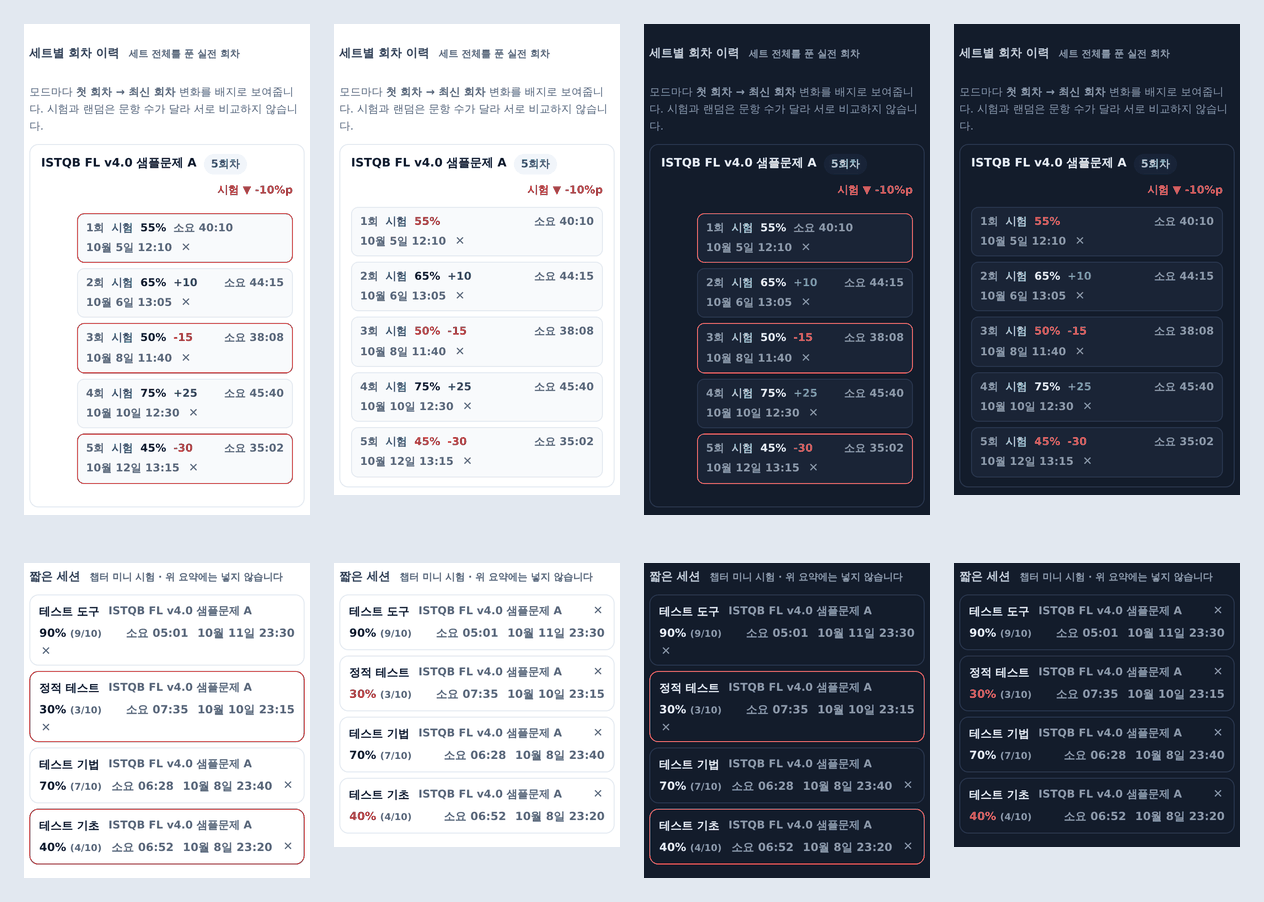
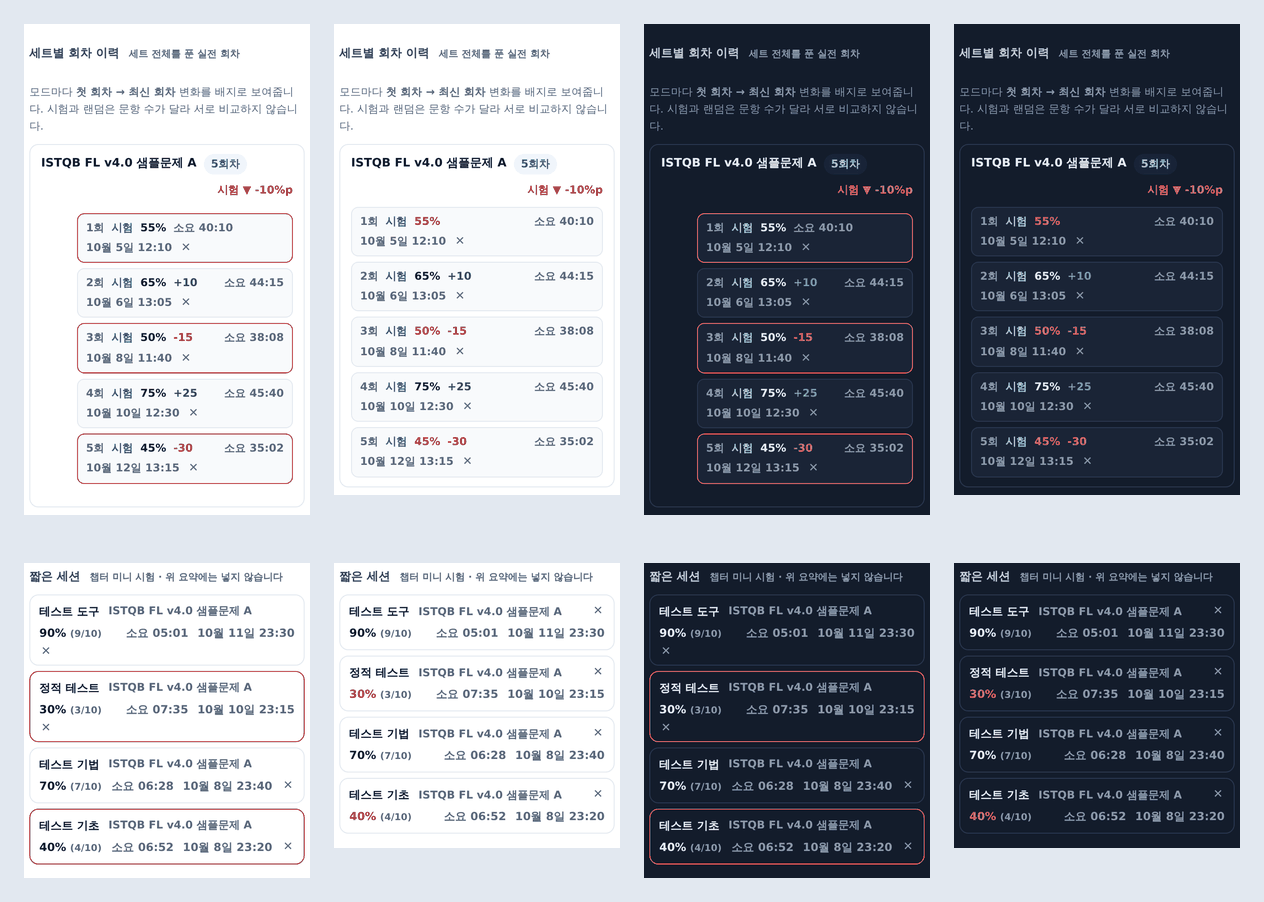
fix(ui): 코드리뷰 반영 — 출처 세트 말줄임 방지, 소요·날짜 없는 이력의 ✕, 회차 ✕ 덩어리, 말줄임·안쪽 여백 검사
PR 코드리뷰(high)의 지적 중 재현된 것을 고친다.

- 짧은 세션: 챕터·세트를 격자 칸 하나씩에 넣었더니 출처 세트 이름이 말줄임으로 잘렸다(360px에서는 가장 짧은 챕터명에서도,
  412px에서도 긴 챕터명에서). 구분 단서가 이름 끝(…샘플문제 A의 A)이라 같은 챕터를 두 세트에서 푼 행을 가를 수 없다.
  챕터·세트를 한 덩어리(.mr-head)로 흐르게 두어 자리가 모자라면 세트가 다음 줄로 내려가게 하고(main의 동작), ✕만 격자로
  첫 줄 오른쪽에 둔다. 행 높이는 챕터 길이에 따라 2~3줄로 달라진다(main도 그랬다) — 잘림 대신 고른 대가다.
- 회차 이력: 소요·날짜가 없는 옛·가져온 이력(두 필드는 선택이고 저장소가 채워 주지 않는다)은 ✕가 정답률 바로 뒤라 오른쪽으로
  밀리지 않았다. 밀기 규칙을 정답률(·증감) 바로 뒤 요소 하나로 일반화한다(증감용 margin-right:auto 갈래를 없앤다 — 두 갈래라
  줄이 접히면 행마다 소요 시간이 왼쪽·오른쪽으로 갈렸다). 320px에서 ✕가 혼자 셋째 줄로 떨어지던 것은 날짜와 ✕를 한 덩어리
  (.stl-round-tail)로 묶어 막는다.
- 검사: 말줄임은 상자 좌표가 아니라 scrollWidth로 잰다(잘린 칸의 상자는 잘린 크기라 좌표만으로는 통과한다). 겹침은 행의
  안쪽(테두리·패딩 안)을 기준으로, 소요 시간 정렬은 모든 폭에서, 회차 행의 ✕가 날짜와 같은 줄인지, 소요·날짜 없는 행의 ✕
  위치까지 잰다. 붉은 기 판정은 helpers.ts의 isReddish로 모아 세 스펙에 흩어진 복사본을 없앤다(color(srgb …) 직렬화도
  읽는다). PR 머리(b8f49cc)로 되돌리면 4건이 각각 실패하는 것을 확인했다(세트 말줄임 360·390px, 소요 시간 정렬 320px,
  옛 회차의 ✕ 148px).
- 문서: ui-render.md의 짧은 세션·회차 규칙을 실제 구조로 고치고, ol reset의 뿌리와 추가안(전역 reset 확장)을 적었다.

후속으로 남긴 것(이 PR의 변경이 만든 것이 아니거나 디자인 결정이 필요하다): ✕가 15×13px이고 확인·실행 취소 없이 즉시
삭제하는 점, 두 목록의 ✕ 위치 통일(회차는 날짜 뒤, 짧은 세션은 첫 줄 오른쪽).

Claude-Session: https://claude.ai/code/session_01QKJMyX2ix8rmUsqF3ppw7s

diff --git a/e2e/react-stats.spec.ts b/e2e/react-stats.spec.ts
@@ -1,5 +1,5 @@
 import { expect, Page, test } from "./fixtures";
-import { enterExam, modeBtn, openProduct, openSet, settle, submitGrade } from "./helpers";
+import { enterExam, isReddish, modeBtn, openProduct, openSet, settle, submitGrade } from "./helpers";
 
 // 학습 통계 — 요약·회차 타임라인·약점 분석·챕터 분모.
 
@@ -8,6 +8,8 @@ interface SeedRound {
   id: string; mode: string; correct: number; total: number; chapter?: string;
   /** 응시 시각(ms) — 생략하면 id로 만든 고정 날짜. 날짜 글자 길이가 행 배치에 영향을 주는 검사에서만 준다. */
   at?: number;
+  /** 소요 시간·응시 시각이 없는 옛·가져온 이력(두 필드는 선택이고 저장소가 채워 주지 않는다). */
+  bare?: boolean;
 }
 
 // 통계 화면은 "여러 회차가 쌓인 뒤"의 계산이 핵심이라, 실제 풀이로는 원하는 점수 조합을
@@ -30,8 +32,9 @@ async function seedHistories(page: Page, rounds: SeedRound[]) {
         tx.objectStore("history").put({
           id: r.id, setId: "ISTQB-FL-V4-A", mode: r.mode, certification: "istqb",
           setTitle: "ISTQB FL v4.0 샘플문제 A", answers: {},
-          correct: r.correct, total: r.total, elapsedSeconds: 600,
-          createdAt: r.at ?? 1750000000000 + Number(r.id),
+          correct: r.correct, total: r.total,
+          ...(r.bare ? {} : { elapsedSeconds: 600 }),
+          createdAt: r.bare ? 0 : r.at ?? 1750000000000 + Number(r.id),
           chapterStats: { "테스트 기초": { c: r.correct, t: r.total } },
           ...(r.chapter ? { chapter: r.chapter } : {}),
         });
@@ -161,10 +164,6 @@ test.describe("학습 통계", () => {
     ]);
     await openStats(page);
 
-    const reddish = (rgb: string) => {
-      const [r, g, b] = (rgb.match(/\d+/g) ?? []).slice(0, 3).map(Number);
-      return r > g + 40 && r > b + 40;
-    };
     for (const [list, rate] of [[".stl-rounds li", ".stl-round-rate"], [".mini-rounds li", ".mr-rate"]] as const) {
       const rows = await page.locator(list).evaluateAll((els, rateSel) => els.map((el) => ({
         weak: el.classList.contains("weak"),
@@ -174,14 +173,15 @@ test.describe("학습 통계", () => {
       expect(rows.some((r) => r.weak), `${list}: 미달 행이 없다 — 시드가 바뀌었다`).toBe(true);
       expect(rows.some((r) => !r.weak), `${list}: 통과 행이 없다 — 시드가 바뀌었다`).toBe(true);
       for (const r of rows) {
-        expect(reddish(r.border), `${list}: 행 테두리가 붉다(${r.border}) — 미달은 정답률 숫자로만 짚는다`).toBe(false);
-        expect(reddish(r.rate), `${list}: ${r.weak ? "미달 행의 정답률이 붉지 않다" : "통과 행의 정답률이 붉다"}(${r.rate})`).toBe(r.weak);
+        expect(isReddish(r.border), `${list}: 행 테두리가 붉다(${r.border}) — 미달은 정답률 숫자로만 짚는다`).toBe(false);
+        expect(isReddish(r.rate), `${list}: ${r.weak ? "미달 행의 정답률이 붉지 않다" : "통과 행의 정답률이 붉다"}(${r.rate})`).toBe(r.weak);
       }
     }
   });
 
   // 배치는 위치가 아니라 규칙으로 잰다. 회차 행이 40px 들여써지고(ol 기본 여백) 짧은 세션의 ✕가 셋째 줄로 떨어지던 결함 —
   // 둘 다 눌러지고 읽히므로 기능 검사는 통과했다. 날짜가 가장 긴 형식('10월 28일 23:30')·가장 긴 챕터명으로 잰다.
+  // 상자 좌표만 재면 말줄임(…)으로 잘린 글자도 통과하므로(잘린 칸의 상자는 잘린 크기다) scrollWidth로 따로 본다.
   for (const width of [320, 360, 390]) {
     test(`회차·짧은 세션 행의 배치 — ${width}px`, async ({ page }) => {
       const at = (day: number) => new Date(2025, 9, day, 23, 30).getTime(); // 10월 N일 23:30 — 월·일이 모두 두 자리
@@ -199,49 +199,88 @@ test.describe("학습 통계", () => {
       // ① 회차 행은 카드 안쪽 여백에 맞춰 선다 — 들여쓰기(ol 기본 padding 40px)가 없다.
       const timeline = await page.locator(".set-timeline").first().evaluate((card) => {
         const head = card.querySelector(".stl-head")!.getBoundingClientRect();
-        const rows = [...card.querySelectorAll<HTMLElement>(".stl-rounds li")].map((li) => li.getBoundingClientRect());
-        const times = [...card.querySelectorAll<HTMLElement>(".stl-round-time")].map((t) => Math.round(t.getBoundingClientRect().right));
-        const tops = [...card.querySelectorAll<HTMLElement>(".stl-round-time")].map((t) => Math.round(t.getBoundingClientRect().top));
-        return { headLeft: head.left, rowLefts: rows.map((r) => r.left), rowRights: rows.map((r) => r.right), headRight: head.right, times, tops };
+        // 행의 안쪽 오른쪽 끝(테두리·패딩 안) — 소요 시간·✕가 붙어야 하는 자리.
+        const inner = (li: Element) => {
+          const cs = getComputedStyle(li);
+          return li.getBoundingClientRect().right - parseFloat(cs.paddingRight) - parseFloat(cs.borderRightWidth);
+        };
+        const rows = [...card.querySelectorAll<HTMLElement>(".stl-rounds li")].map((li) => {
+          const box = li.getBoundingClientRect();
+          const time = li.querySelector(".stl-round-time")?.getBoundingClientRect();
+          const date = li.querySelector(".stl-round-date")?.getBoundingClientRect();
+          const del = li.querySelector(".stl-round-del")!.getBoundingClientRect();
+          return {
+            left: box.left, right: box.right, innerRight: inner(li),
+            timeRight: time?.right, dateDelSameLine: date ? Math.abs((date.top + date.height / 2) - (del.top + del.height / 2)) : 0,
+          };
+        });
+        return { headLeft: head.left, headRight: head.right, rows };
       });
-      for (const left of timeline.rowLefts) {
-        expect(Math.abs(left - timeline.headLeft), `회차 행이 카드 안쪽 여백에 맞지 않는다(들여쓰기): 행 ${left} · 카드 ${timeline.headLeft}`).toBeLessThanOrEqual(1);
-      }
-      for (const right of timeline.rowRights) expect(right, "회차 행이 카드 오른쪽을 넘었다").toBeLessThanOrEqual(timeline.headRight + 1);
-
-      // ② 소요 시간은 모든 회차 행에서 같은 줄(첫 줄)의 오른쪽 끝에 선다 — 첫 회차(증감 없음)만 왼쪽에 붙던 결함.
-      //    좁은 폭에서는 줄이 접혀 행마다 다를 수 있어 360px 이상에서만 본다.
-      if (width >= 360) {
-        expect(new Set(timeline.times).size, `소요 시간의 오른쪽 끝이 행마다 다르다: ${timeline.times}`).toBe(1);
+      for (const r of timeline.rows) {
+        expect(Math.abs(r.left - timeline.headLeft), `회차 행이 카드 안쪽 여백에 맞지 않는다(들여쓰기): 행 ${r.left} · 카드 ${timeline.headLeft}`).toBeLessThanOrEqual(1);
+        expect(r.right, "회차 행이 카드 오른쪽을 넘었다").toBeLessThanOrEqual(timeline.headRight + 1);
+        // ② 소요 시간은 모든 회차 행에서 행의 오른쪽 끝에 붙는다 — 첫 회차(증감 없음)만 왼쪽에 붙던 결함. 줄이 접혀도 같은 쪽이다.
+        expect(Math.abs((r.timeRight ?? r.innerRight) - r.innerRight), `소요 시간이 오른쪽 끝에 붙지 않았다: ${r.timeRight} · 행 안쪽 끝 ${r.innerRight}`).toBeLessThanOrEqual(1);
+        // ③ 날짜와 ✕는 한 덩어리 — 줄이 접혀도 ✕만 혼자 아랫줄로 떨어지지 않는다.
+        expect(r.dateDelSameLine, `회차 행의 ✕가 날짜와 다른 줄에 있다(${r.dateDelSameLine}px)`).toBeLessThanOrEqual(6);
       }
 
-      // ③ 짧은 세션: ✕는 챕터명과 같은 첫 줄에 서고(혼자 셋째 줄로 떨어지지 않는다), 모든 칸이 행 안에 든다.
-      //    마크업 구조(.mr-meta 같은 래퍼)가 아니라 보이는 관계만 잰다.
+      // ④ 짧은 세션: ✕는 첫 줄 오른쪽 끝에 서고(혼자 셋째 줄로 떨어지지 않는다), 챕터명·출처 세트는 잘리지 않으며, 모든 칸이 행 안쪽에 든다.
+      //    마크업 구조(.mr-head·.mr-meta 같은 래퍼)가 아니라 보이는 관계만 잰다.
       const minis = await page.getByTestId("mini-round-item").evaluateAll((rows) => rows.map((li) => {
         const box = (sel: string) => li.querySelector(sel)!.getBoundingClientRect();
+        const cs = getComputedStyle(li);
         const row = li.getBoundingClientRect();
+        const innerLeft = row.left + parseFloat(cs.paddingLeft) + parseFloat(cs.borderLeftWidth);
+        const innerRight = row.right - parseFloat(cs.paddingRight) - parseFloat(cs.borderRightWidth);
         const chapter = box(".mr-chapter");
         const del = box(".stl-round-del");
         const rate = box(".mr-rate");
+        const cut = (sel: string) => { const e = li.querySelector(sel); return !!e && e.scrollWidth > e.clientWidth + 1; };
         const overflow = [...li.querySelectorAll<HTMLElement>("*")]
-          .filter((el) => el.getBoundingClientRect().right > row.right + 1 || el.getBoundingClientRect().left < row.left - 1)
+          .filter((el) => el.getBoundingClientRect().right > innerRight + 1 || el.getBoundingClientRect().left < innerLeft - 1)
           .map((el) => el.className);
         return {
           label: li.querySelector(".mr-chapter")!.textContent,
-          sameLine: Math.abs((del.top + del.height / 2) - (chapter.top + chapter.height / 2)),
+          delSameLine: Math.abs((del.top + del.height / 2) - (chapter.top + chapter.height / 2)),
+          delAtRight: Math.abs(del.right - innerRight),
           rateBelow: rate.top >= chapter.bottom - 1,
-          overflow,
+          chapterCut: cut(".mr-chapter"), setCut: cut(".mr-set"), overflow,
         };
       }));
       expect(minis.length).toBe(2);
       for (const m of minis) {
-        expect(m.sameLine, `${m.label}: ✕가 챕터명과 다른 줄에 있다(${m.sameLine}px)`).toBeLessThanOrEqual(6);
+        expect(m.delSameLine, `${m.label}: ✕가 챕터명 첫 줄에 있지 않다(${m.delSameLine}px)`).toBeLessThanOrEqual(8);
+        expect(m.delAtRight, `${m.label}: ✕가 행의 오른쪽 끝에 붙지 않았다(${m.delAtRight}px)`).toBeLessThanOrEqual(1);
         expect(m.rateBelow, `${m.label}: 정답률이 첫 줄(챕터명) 아래로 가지 않았다`).toBe(true);
-        expect(m.overflow, `${m.label}: 행 밖으로 넘친 칸`).toEqual([]);
+        // 출처 세트의 구분 단서는 이름 끝(A·B)이다 — 말줄임하면 같은 챕터를 두 세트에서 푼 행을 가를 수 없다.
+        expect(m.setCut, `${m.label}: 출처 세트가 말줄임으로 잘렸다`).toBe(false);
+        expect(m.chapterCut, `${m.label}: 챕터명이 말줄임으로 잘렸다`).toBe(false);
+        expect(m.overflow, `${m.label}: 행 안쪽 밖으로 넘친 칸`).toEqual([]);
       }
       expect(await page.evaluate(() => document.documentElement.scrollWidth - window.innerWidth), "페이지가 가로로 넘친다").toBeLessThanOrEqual(0);
     });
   }
+
+  // 소요 시간·응시 시각은 선택 필드다(옛·가져온 이력에는 없고 저장소가 채워 주지 않는다). 그 회차의 ✕도 오른쪽 끝에 서야 한다 —
+  // 정답률 바로 뒤가 ✕인 경우다.
+  test("소요 시간·날짜가 없는 옛 회차도 ✕가 행의 오른쪽 끝에 선다", async ({ page }) => {
+    await seedHistories(page, [
+      { id: "1000", mode: "exam", correct: 24, total: 40, bare: true },
+      { id: "2000", mode: "exam", correct: 26, total: 40 },
+    ]);
+    await openStats(page);
+    await page.setViewportSize({ width: 390, height: 900 });
+    await settle(page);
+    const gaps = await page.locator(".stl-rounds li").evaluateAll((rows) => rows.map((li) => {
+      const cs = getComputedStyle(li);
+      const innerRight = li.getBoundingClientRect().right - parseFloat(cs.paddingRight) - parseFloat(cs.borderRightWidth);
+      return { bare: !li.querySelector(".stl-round-time, .stl-round-date"), delGap: innerRight - li.querySelector(".stl-round-del")!.getBoundingClientRect().right };
+    }));
+    expect(gaps.some((g) => g.bare), "소요·날짜가 없는 행이 없다 — 시드가 바뀌었다").toBe(true);
+    // 소요·날짜가 있는 행의 ✕는 날짜 바로 뒤(둘째 줄)에 서는 것이 설계다 — 오른쪽 끝에 붙어야 하는 것은 정답률 바로 뒤가 ✕인 행이다.
+    for (const g of gaps.filter((x) => x.bare)) expect(g.delGap, `소요·날짜 없는 행의 ✕가 오른쪽 끝에서 ${g.delGap}px 떨어져 있다`).toBeLessThanOrEqual(1);
+  });
 });
 
 // 표본이 적은 챕터는 순위에서 분리한다 — 정답률만으로 줄 세우면 1문항 챕터가 늘 1위 약점이 된다.

diff --git a/src/styles/globals.css b/src/styles/globals.css
@@ -2023,15 +2023,18 @@ body[data-theme="dark"] .option.wrong .option-key { background: #b91c1c; }
 .stl-round-no { color: var(--muted); font-weight: 700; }
 .stl-round-mode { color: var(--primary-700); font-weight: 700; }
 .stl-round-rate { color: var(--text); font-weight: 800; }
-/* 정답률(·증감) 뒤를 밀어 소요·날짜·삭제가 오른쪽에 모이게 한다. 첫 회차는 증감이 없어 정답률 바로 뒤가 소요 시간이다 —
-   종전의 `.stl-round-rate:last-of-type`은 '마지막 span'이라 정답률에 걸리지 않아, 첫 회차만 소요 시간이 왼쪽에 붙었다. */
-.stl-round-delta { margin-right: auto; }
-.stl-round-rate + .stl-round-time, .stl-round-rate + .stl-round-date { margin-left: auto; }
+/* 정답률(·증감) 바로 뒤의 요소가 남는 폭을 밀어 소요·날짜·삭제가 오른쪽에 모이게 한다 — 그 요소가 소요 시간이든, 날짜·✕ 덩어리든
+   (소요·날짜가 없는 옛·가져온 이력은 ✕가 정답률 바로 뒤다). 종전에는 증감(`margin-right:auto`)과 `.stl-round-rate:last-of-type`
+   두 갈래였는데, 뒤의 것은 '마지막 span'이라 정답률에 걸리지 않아 첫 회차(증감 없음)만 소요 시간이 왼쪽에 붙었다. 한 규칙이면 줄이
+   접혀도 모든 행이 같은 쪽에 선다. */
+.stl-round-rate + :not(.stl-round-delta), .stl-round-delta + * { margin-left: auto; }
 .stl-round-delta.up { color: var(--success, #1c7c3c); }
 .stl-round-delta.down { color: var(--danger, #c0392b); }
 
 /* 회차 항목의 부가 정보 — 종전에는 아래 중복 목록에만 있던 소요 시간·날짜를 흡수했다. */
 .stl-round-time, .stl-round-date { color: var(--muted); font-weight: 600; }
+/* 날짜와 ✕는 한 덩어리 — 줄이 접힐 때(320px) ✕만 혼자 아랫줄로 떨어지지 않는다. */
+.stl-round-tail { display: inline-flex; align-items: center; gap: 8px; }
 /* 회차 단건 삭제 — 잘못 제출한 한 건 때문에 이력을 통째로 버리지 않아도 되게. */
 .stl-round-del {
   border: 0; background: none; cursor: pointer; padding: 0 2px;
@@ -2044,31 +2047,25 @@ body[data-theme="dark"] .option.wrong .option-key { background: #b91c1c; }
 .stats-minis h4 { font-size: 13px; font-weight: 800; color: var(--text-2); margin-bottom: 8px; }
 .stats-minis h4 small { font-weight: 600; color: var(--muted); margin-left: 6px; }
 .mini-rounds { display: flex; flex-direction: column; gap: 6px; }
-/* 두 줄 격자: [챕터 · 출처 세트 · ✕] / [정답률 · 소요 · 날짜]. 종전에는 한 줄 흐름(flex-wrap)이라 둘째 줄이 차는 순간
+/* 두 줄 격자: [챕터 · 출처 세트 | ✕] / [정답률 · 소요 · 날짜]. 종전에는 한 줄 흐름(flex-wrap)이라 둘째 줄이 차는 순간
    ✕가 혼자 셋째 줄로 떨어졌다(날짜가 긴 '10월 11일 23:30' 같은 행만 — 행 높이도 들쭉날쭉했다). */
 .mini-rounds li {
-  display: grid; grid-template-columns: auto minmax(0, 1fr) auto; align-items: center; gap: 4px 10px;
+  display: grid; grid-template-columns: minmax(0, 1fr) auto; align-items: start; gap: 4px 10px;
   padding: 8px 10px; border: 1px solid var(--line); border-radius: 10px;
   background: var(--surface); font-size: 12.5px;
 }
 .mini-rounds li > * { white-space: nowrap; }
 /* 합격선 미만은 행 테두리 대신 정답률 숫자만 붉게 — 챕터 행·회차 이력과 같은 규칙. '(4/10)'은 보조 정보라 그대로 흐리다. */
 .mini-rounds li.weak .mr-rate { color: var(--danger); }
-/* 챕터명은 한국어라 min-content가 '한 글자'다(오답노트와 같은 함정) — 줄바꿈 대신 nowrap으로 두고, 칸이 모자라는 극단(320px에
-   가장 긴 챕터)에서만 말줄임한다. */
-.mr-chapter { grid-column: 1; grid-row: 1; min-width: 0; overflow: hidden; text-overflow: ellipsis; font-weight: 800; color: var(--text); }
-/* 출처 세트 — 챕터명 옆의 보조 정보라 줄어들 수 있게 둔다(챕터명이 먼저 읽혀야 한다). */
-.mr-set {
-  grid-column: 2; grid-row: 1;
-  min-width: 0;
-  overflow: hidden;
-  text-overflow: ellipsis;
-  color: var(--muted);
-  font-weight: 600;
-  font-size: 12px;
-}
-/* 삭제는 첫 줄 오른쪽 끝 — DOM 순서(정답률 뒤)는 그대로라 읽는 순서·탭 순서는 변하지 않는다. */
-.mini-rounds .stl-round-del { grid-column: 3; grid-row: 1; justify-self: end; }
+/* 챕터명과 출처 세트는 한 덩어리(흐름)다 — 자리가 모자라면 세트가 다음 줄로 내려갈 뿐 잘리지 않는다. 세트를 말줄임하면 같은
+   챕터를 세트 A·B에서 풀었을 때 구분 단서인 이름 끝(A·B)이 먼저 사라진다(격자 한 칸에 넣었을 때 360px에서 실제로 그랬다). */
+.mr-head { grid-column: 1; grid-row: 1; display: flex; flex-wrap: wrap; align-items: baseline; gap: 2px 10px; min-width: 0; }
+/* 챕터명은 한국어라 min-content가 '한 글자'다(오답노트와 같은 함정) — flex:none + nowrap. 행보다 긴 극단에서만 말줄임한다. */
+.mr-chapter { flex: none; max-width: 100%; overflow: hidden; text-overflow: ellipsis; font-weight: 800; color: var(--text); }
+/* 출처 세트 — 챕터명 옆의 보조 정보라 줄어들 수 있게 두되, 한 줄이 행보다 길 때만 말줄임한다. */
+.mr-set { flex: 0 1 auto; min-width: 0; max-width: 100%; overflow: hidden; text-overflow: ellipsis; color: var(--muted); font-weight: 600; font-size: 12px; }
+/* 삭제는 첫 줄 오른쪽 끝 — DOM 순서(정답률 뒤)는 그대로라 읽는 순서·탭 순서는 변하지 않는다. 글자가 두 줄이 돼도 ✕는 첫 줄에 붙는다. */
+.mini-rounds .stl-round-del { grid-column: 2; grid-row: 1; align-self: start; margin-top: 3px; }
 /* 둘째 줄은 한 덩어리 — 정답률이 남는 폭을 먹어 소요·날짜가 오른쪽에 모이고, 아주 좁으면 이 덩어리 안에서만 접힌다. */
 .mr-meta { grid-column: 1 / -1; grid-row: 2; display: flex; flex-wrap: wrap; align-items: baseline; gap: 2px 10px; min-width: 0; }
 .mr-rate { flex: 1 1 auto; min-width: 0; font-weight: 800; color: var(--text); }

diff --git a/src/components/stats/StatsDashboard.tsx b/src/components/stats/StatsDashboard.tsx
@@ -371,19 +371,22 @@ export const StatsDashboard = ({ histories, quickRounds = [], sets, duplicateGro
                           {at.elapsedSeconds != null && (
                             <span className="stl-round-time">소요 {formatClock(at.elapsedSeconds)}</span>
                           )}
-                          {at.createdAt > 0 && (
-                            <span className="stl-round-date">{formatRoundDate(at.createdAt)}</span>
-                          )}
-                          <button
-                            type="button"
-                            className="stl-round-del"
-                            data-testid="round-delete-btn"
-                            aria-label={`${tl.title} ${at.round}회차 기록 삭제`}
-                            title="이 회차 기록만 삭제"
-                            onClick={() => onDeleteRound(at.id)}
-                          >
-                            ✕
-                          </button>
+                          {/* 날짜와 ✕는 한 덩어리 — 320px처럼 줄이 접힐 때 ✕만 혼자 아랫줄로 떨어지지 않는다. */}
+                          <span className="stl-round-tail">
+                            {at.createdAt > 0 && (
+                              <span className="stl-round-date">{formatRoundDate(at.createdAt)}</span>
+                            )}
+                            <button
+                              type="button"
+                              className="stl-round-del"
+                              data-testid="round-delete-btn"
+                              aria-label={`${tl.title} ${at.round}회차 기록 삭제`}
+                              title="이 회차 기록만 삭제"
+                              onClick={() => onDeleteRound(at.id)}
+                            >
+                              ✕
+                            </button>
+                          </span>
                         </li>
                       ))}
                     </ol>
@@ -402,11 +405,15 @@ export const StatsDashboard = ({ histories, quickRounds = [], sets, duplicateGro
                 <ul className="mini-rounds">
                   {miniRounds.map((m) => (
                     <li key={m.id} className={m.rate < weakThreshold ? 'weak' : ''} data-testid="mini-round-item">
-                      <span className="mr-chapter">{m.chapter ?? '퀵 랜덤'}</span>
-                      {/* 같은 챕터를 세트 A·B에서 각각 미니 시험하면 챕터명만으로는 두 줄이
-                          구분되지 않는다(정답률만 다른 같은 이름 두 개). 출처 세트를 붙인다.
-                          퀵은 세트에 매이지 않아(setId가 센티넬) 붙일 것이 없다. */}
-                      {m.kind === 'mini' && <span className="mr-set">{m.title}</span>}
+                      {/* 챕터명과 출처 세트는 한 덩어리(흐름)다 — 자리가 모자라면 세트가 다음 줄로 내려갈 뿐 잘리지 않는다.
+                          세트를 말줄임하면 구분 단서인 이름 끝('…샘플문제 A'의 A)이 먼저 사라진다. */}
+                      <span className="mr-head">
+                        <span className="mr-chapter">{m.chapter ?? '퀵 랜덤'}</span>
+                        {/* 같은 챕터를 세트 A·B에서 각각 미니 시험하면 챕터명만으로는 두 줄이
+                            구분되지 않는다(정답률만 다른 같은 이름 두 개). 출처 세트를 붙인다.
+                            퀵은 세트에 매이지 않아(setId가 센티넬) 붙일 것이 없다. */}
+                        {m.kind === 'mini' && <span className="mr-set">{m.title}</span>}
+                      </span>
                       {/* 정답률·소요·날짜는 한 덩어리(둘째 줄)다 — ✕를 같은 줄 흐름에 두면 이 줄이 차는 순간 혼자 셋째 줄로
                           떨어졌다. ✕는 DOM 순서(읽는 순서)는 그대로 두고 CSS 격자에서 첫 줄 오른쪽 끝에 둔다. */}
                       <span className="mr-meta">

diff --git a/e2e/react-responsive.spec.ts b/e2e/react-responsive.spec.ts
@@ -4,6 +4,7 @@ import {
   enterExam,
   enterMiniTestMobile,
   gotoQuestionMobile,
+  isReddish,
   openProduct,
   openQuestionList,
   openSet,
@@ -250,14 +251,10 @@ test.describe("엣지-반응형", () => {
           bar: css(row.querySelector(".sc-bar i"), "backgroundColor"),
         };
       });
-      const reddish = (rgb: string) => {
-        const [r, g, b] = (rgb.match(/\d+/g) ?? []).slice(0, 3).map(Number);
-        return r > g + 40 && r > b + 40;
-      };
-      expect(reddish(colors.border), `약한 챕터 행의 테두리가 붉다(${colors.border})`).toBe(false);
-      expect(reddish(colors.name), `약한 챕터 이름이 붉다(${colors.name})`).toBe(false);
-      expect(reddish(colors.rate), `약한 챕터의 정답률 숫자가 붉지 않다(${colors.rate})`).toBe(true);
-      expect(reddish(colors.bar), `약한 챕터의 막대가 붉지 않다(${colors.bar})`).toBe(true);
+      expect(isReddish(colors.border), `약한 챕터 행의 테두리가 붉다(${colors.border})`).toBe(false);
+      expect(isReddish(colors.name), `약한 챕터 이름이 붉다(${colors.name})`).toBe(false);
+      expect(isReddish(colors.rate), `약한 챕터의 정답률 숫자가 붉지 않다(${colors.rate})`).toBe(true);
+      expect(isReddish(colors.bar), `약한 챕터의 막대가 붉지 않다(${colors.bar})`).toBe(true);
     });
     // react-layout에서 옮김
     test("모드 변경 시 드로어가 자동으로 닫힌다", async ({ page }) => {

diff --git a/e2e/react-mobile-flow.spec.ts b/e2e/react-mobile-flow.spec.ts
@@ -6,6 +6,7 @@ import {
   closeResult,
   enterExam,
   enterMiniTestMobile,
+  isReddish,
   enterQuick,
   gotoQuestionMobile,
   openProduct,
@@ -122,8 +123,7 @@ test.describe("헤더와 상태 줄", () => {
       expect(chip.bg, `${theme}: 칩 배경이 ☰와 다르다 — 경고색으로 칠했다`).toBe(menu.bg);
       expect(chip.border, `${theme}: 칩 테두리가 ☰와 다르다 — 경고색으로 둘렀다`).toBe(menu.border);
       // 배지 색과 다르다는 것만으로는 부족하다 — 다른 붉은색으로 칠해도 통과한다. 붉은 기가 도는지 자체를 잰다.
-      const [r, g, b] = (chip.color.match(/\d+/g) ?? []).slice(0, 3).map(Number);
-      expect(r > g + 40 && r > b + 40, `${theme}: 칩 글자가 붉은색이다(${chip.color}) — 붉은색은 배지에만 쓴다`).toBe(false);
+      expect(isReddish(chip.color), `${theme}: 칩 글자가 붉은색이다(${chip.color}) — 붉은색은 배지에만 쓴다`).toBe(false);
       expect(badge.color, `${theme}: 배지는 붉은 면 위의 흰 글자다`).toBe("rgb(255, 255, 255)");
     }
   });

diff --git a/e2e/helpers.ts b/e2e/helpers.ts
@@ -347,6 +347,16 @@ export async function goNextQuestion(page: Page): Promise<boolean> {
   return true;
 }
 
+/**
+ * 계산된 색(getComputedStyle)이 붉은 기가 도는가 — 색 값을 못 박지 않고 '경고색으로 칠했는가'를 관계로 잰다.
+ * `rgb(…)`·`rgba(…)`뿐 아니라 `color(srgb 0.78 0.12 0.12)`(color-mix 결과의 직렬화)도 읽는다.
+ */
+export function isReddish(css: string): boolean {
+  const scale = css.startsWith("color(") ? 255 : 1;
+  const [r, g, b] = (css.match(/[\d.]+/g) ?? []).slice(0, 3).map((n) => Number(n) * scale);
+  return r > g + 40 && r > b + 40;
+}
+
 // 채점: 채점 버튼 클릭 후 미응답 경고 모달이 뜨면 확인까지 처리한다.
 export async function submitGrade(page: Page, testid = "grade-button") {
   await page.getByTestId(testid).click();

diff --git a/docs/harness/ui-render.md b/docs/harness/ui-render.md
@@ -35,8 +35,8 @@ npm run test:e2e   # 콘텐츠·반응형·표/그림 스펙 포함
 - **오답 노트 입구는 경고가 아니라 길이다.** 풀이 화면 상태 줄의 `.mtb-wrong`은 ☰와 같은 중립 버튼(글자 + 개수 배지)이고 붉은색은 개수 배지에만 쓴다. 분홍 채움·빨간 테두리·빨간 글자·빨간 배지가 겹치면 에러 배너처럼 읽히고 옆의 ☰·모드 칩과 톤이 맞지 않는다(`react-mobile-flow`가 ☰와의 관계로 고정한다).
 - **상태 줄은 내용이 가장 긴 조합에서도 잘리거나 꺾이지 않는다.** 아랫줄(모드 칩·위치·시간·오답 노트)의 폭은 내용에 따라 크게 달라진다 — 모드 라벨('시험'→'미니 시험'), 시계('59:59'→'1:05:12', 연습은 경과 시간이 한 시간을 넘긴다), 배지(한 자리→세 자리). 배지는 전 세트 오답의 총수라서 저장된 이력이 있는 사용자는 **첫 화면부터** 뜬다(채점 뒤에만 뜨는 것이 아니다). 칸은 줄바꿈하지 않고(`white-space: nowrap` — 좁으면 flex가 칸을 눌러 '시/험'·'오답 노/트'처럼 글자 중간에서 꺾인다), 한 줄에 다 안 들면 오답 노트가 다음 줄로 내려간다(`flex-wrap`). 잘리거나 화면 밖으로 밀리지 않는 것이 계약이고 '한 줄'은 보통 내용만 약속한다. 폭 분기만으로 맞추면 다른 내용 조합에서 다시 넘친다 — '시험'+두 자리 배지 한 조합만 재던 검사는 '미니 시험'에서 칩이 오른쪽 여백을 넘어 화면 끝에 붙는 결함을 놓쳤다. 그래서 `react-responsive`의 '상태 줄 N px'가 실제 흐름(시험 → 채점 → 미니 시험)으로 상태를 만든 뒤 가장 긴 내용(미니 시험·`1:05:12`·세 자리 배지)을 같은 틱에 덮어 320~412px에서 잰다. 오답 노트 칩에 아이콘을 두지 않는 것도 이 폭 때문이다 — 아이콘 26px이 가장 흔한 좁은 폭(360px)에서 한 줄을 깨뜨렸다.
 - **학습 통계 챕터 행의 '연습'·'미니 시험'은 한 쌍이다**(`.sc-actions`). 좁은 화면(≤640px)에서는 [이름·정답률] / 막대 / [두 버튼 반반]의 세 줄이고 버튼은 같은 줄·같은 폭이다. 44px 터치 타깃은 폰 폭(≤640px)만이 아니라 모바일 레이아웃 전체(≤880px)의 약속이다 — 세로 태블릿(641~880px)도 터치 기기다(`react-responsive`가 규칙으로 잰다). 약한 챕터는 행 테두리·이름이 아니라 정답률 숫자와 막대만 붉게 — 행마다 빨간 테두리가 둘리면 목록 전체가 오류 화면처럼 읽힌다. **회차 이력·짧은 세션 행도 같은 규칙이다** — 합격선 미만은 행 테두리가 아니라 정답률 숫자만 붉게(`react-stats`가 관계로 잰다).
-- **전역 reset은 `ul`만 비운다 — `ol`에는 기본 들여쓰기(40px)·위아래 여백(1em)이 남는다.** 회차 이력(`.stl-rounds`)이 그렇게 40px 들여써져 모든 행이 한 줄씩 더 접혔고 첫 회차의 소요 시간만 왼쪽에 붙었다. `<ol>`을 쓰면 `margin: 0; padding: 0`을 직접 둔다(안내 모달의 번호 목록은 기본 모양이 의도라 전역으로 바꾸지 않는다). `react-stats`의 '행의 배치'가 행이 카드 안쪽 여백에 맞는지 잰다.
-- **짧은 세션 행은 두 줄 격자다**: [챕터 · 출처 세트 · ✕] / [정답률 · 소요 · 날짜]. ✕를 한 줄 흐름(`flex-wrap`)에 두면 둘째 줄이 차는 순간(날짜가 긴 '10월 28일 23:30' 같은 행) 혼자 셋째 줄로 떨어지고 행 높이가 들쭉날쭉해진다. ✕는 DOM 순서(정답률 뒤)를 그대로 두고 격자 배치로만 첫 줄 오른쪽에 둔다 — 읽는 순서·탭 순서가 변하지 않는다. 가장 긴 챕터명·가장 긴 날짜로 320·360·390px에서 ✕가 챕터명과 같은 줄인지, 칸이 행 밖으로 넘치지 않는지 `react-stats`가 잰다.
+- **전역 reset은 `ul`만 비운다 — `ol`에는 기본 들여쓰기(40px)·위아래 여백(1em)이 남는다.** 회차 이력(`.stl-rounds`)이 그렇게 40px 들여써져 모든 행이 한 줄씩 더 접혔고 첫 회차의 소요 시간만 왼쪽에 붙었다. `<ol>`을 쓰면 `margin: 0; padding: 0`을 직접 둔다(안내 모달의 번호 목록은 기본 모양이 의도라 전역으로 바꾸지 않는다). `react-stats`의 '행의 배치'가 행이 카드 안쪽 여백에 맞는지 잰다. 뿌리(전역 reset이 `ol`을 건드리지 않는 것)는 그대로다 — `ul, ol`로 넓히는 안은 안내 모달의 번호 목록이 번호·들여쓰기를 다시 지정해야 하고 질문 본문 HTML에 `<ol>`이 섞여도 영향이 없는지 확인해야 해서 이 변경에 넣지 않았다. 새 `<ol>`이 생기면 같은 함정을 다시 밟는다.
+- **짧은 세션 행은 두 줄 격자다**: [챕터 · 출처 세트(흐름) | ✕] / [정답률 · 소요 · 날짜]. ✕를 한 줄 흐름(`flex-wrap`)에 두면 둘째 줄이 차는 순간(날짜가 긴 '10월 28일 23:30' 같은 행) 혼자 셋째 줄로 떨어지고 행 높이가 들쭉날쭉해진다. ✕는 DOM 순서(정답률 뒤)를 그대로 두고 격자 배치로만 첫 줄 오른쪽에 둔다 — 읽는 순서·탭 순서가 변하지 않는다. **출처 세트는 말줄임하지 않는다**: 구분 단서가 이름 끝(A·B)이라 잘리면 같은 챕터를 두 세트에서 푼 행을 가를 수 없다 — 챕터와 세트를 격자 한 칸씩에 넣었을 때 360px에서 실제로 잘렸다. 그래서 챕터·세트는 한 덩어리(`.mr-head`)로 흐르게 두어, 자리가 모자라면 세트가 다음 줄로 내려간다. 회차 이력은 날짜와 ✕를 한 덩어리(`.stl-round-tail`)로 묶어 줄이 접혀도 ✕만 혼자 떨어지지 않게 하고, 소요·날짜·✕를 오른쪽으로 미는 규칙은 정답률(·증감) 바로 뒤 요소 하나로 일반화했다(소요·날짜가 없는 옛·가져온 이력은 ✕가 정답률 바로 뒤다). `react-stats`가 가장 긴 챕터명·가장 긴 날짜로 320·360·390px에서 ✕ 위치, 소요 시간 정렬, 칸이 행 안쪽 밖으로 넘치지 않는지를 재고, **말줄임은 상자 좌표가 아니라 `scrollWidth`로 따로 본다**(잘린 칸의 상자는 잘린 크기라 좌표만으로는 통과한다).
 - **버튼·배지의 숫자는 눌러서 열리는 화면의 크기와 같다.** 오답 노트 배지는 노트가 나열하는 문항의 총수(`useWrongNote`), '오답 N문제 다시 풀기'의 N은 오답 모드가 실제로 내놓을 문항 수(`selectReviewQuestions`)다. 따로 세면 "4라더니 열어 보니 17개"가 된다.
 - **하단 고정 바의 높이는 상수가 아니다.** 채점 줄·스트립이 모드와 단계에 따라 붙고 떨어지므로 `QuestionWorkspace`가 실제 높이를 `--actionbar-h`로 내보내고 `.app-shell`의 아래 여백이 그것을 따른다.
 - **세트 표시 이름은 데이터가 아니라 규칙에서 파생한다**(`utils/setSheet.ts`). 규칙이 모르는 새 세트 제목은 `setSheet.contract.test.ts`가 실패시켜 이름을 정할 순간을 돌려준다.
